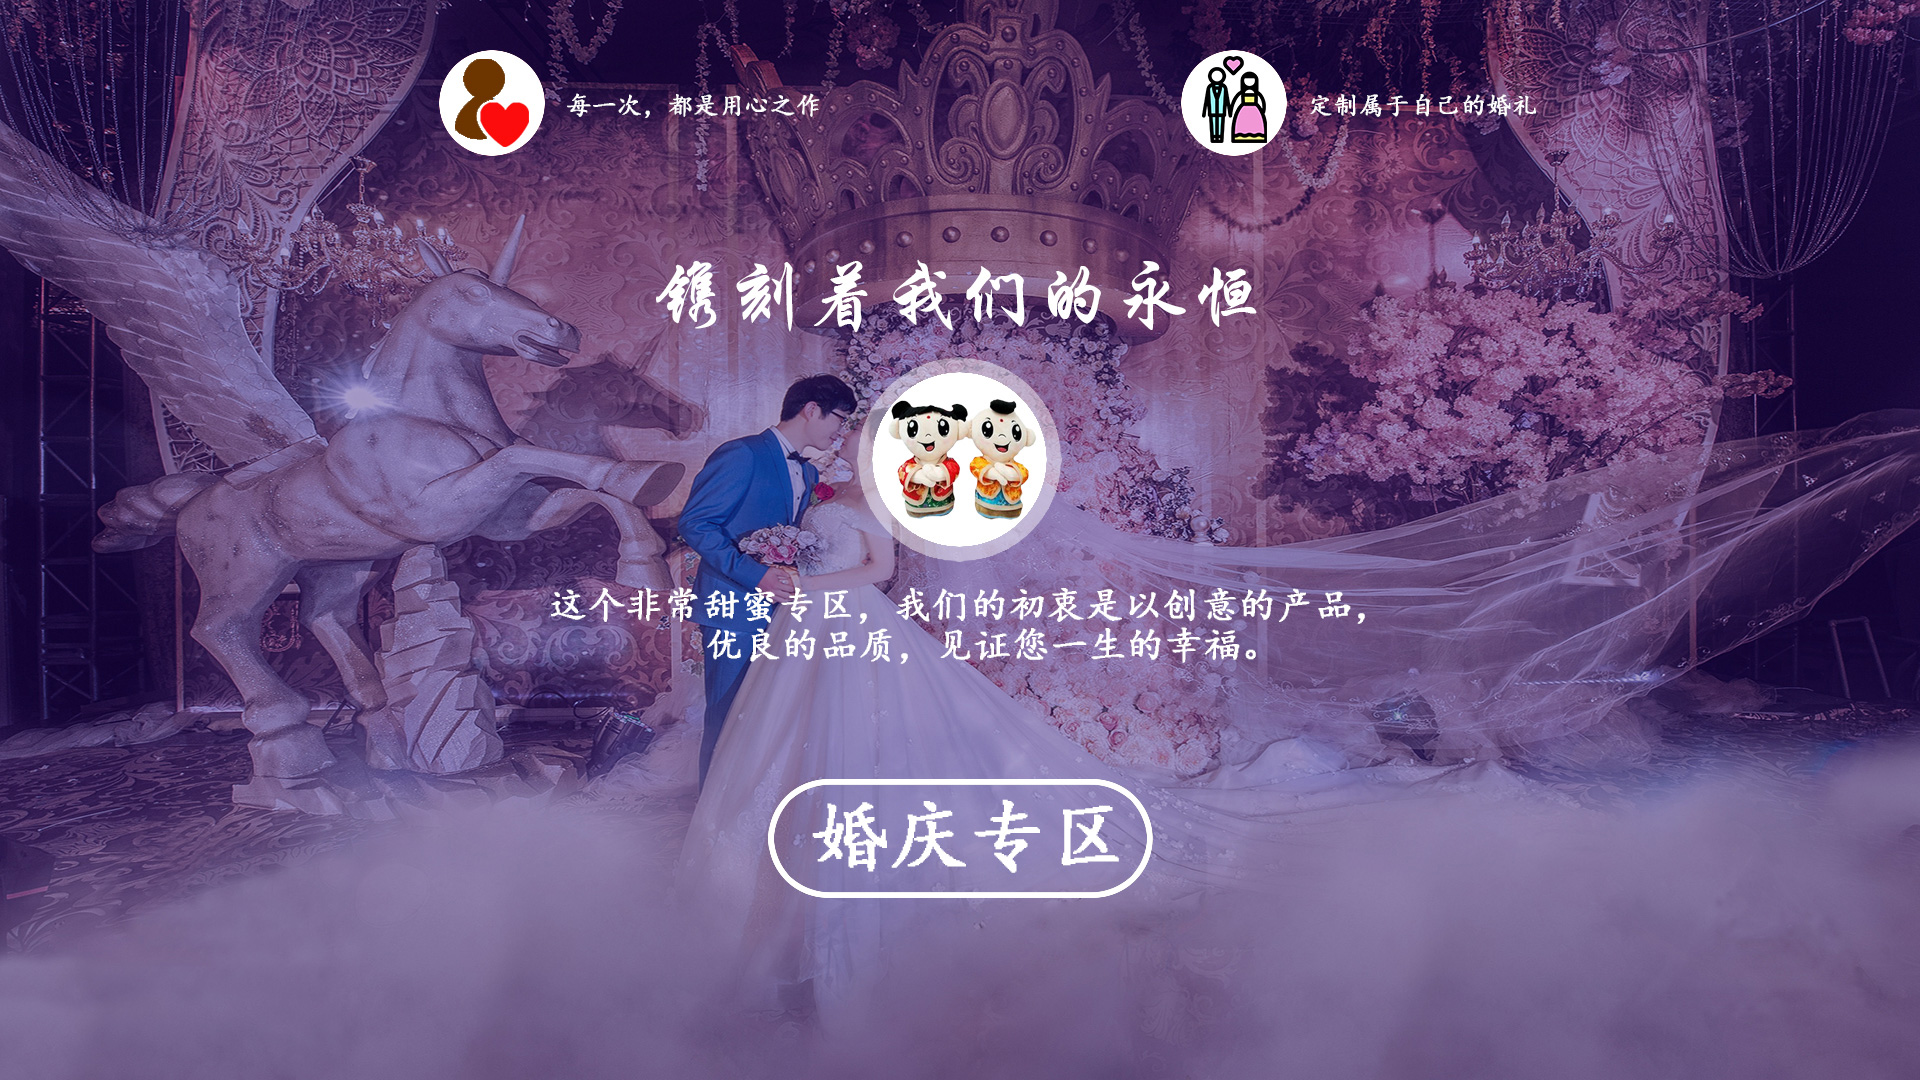
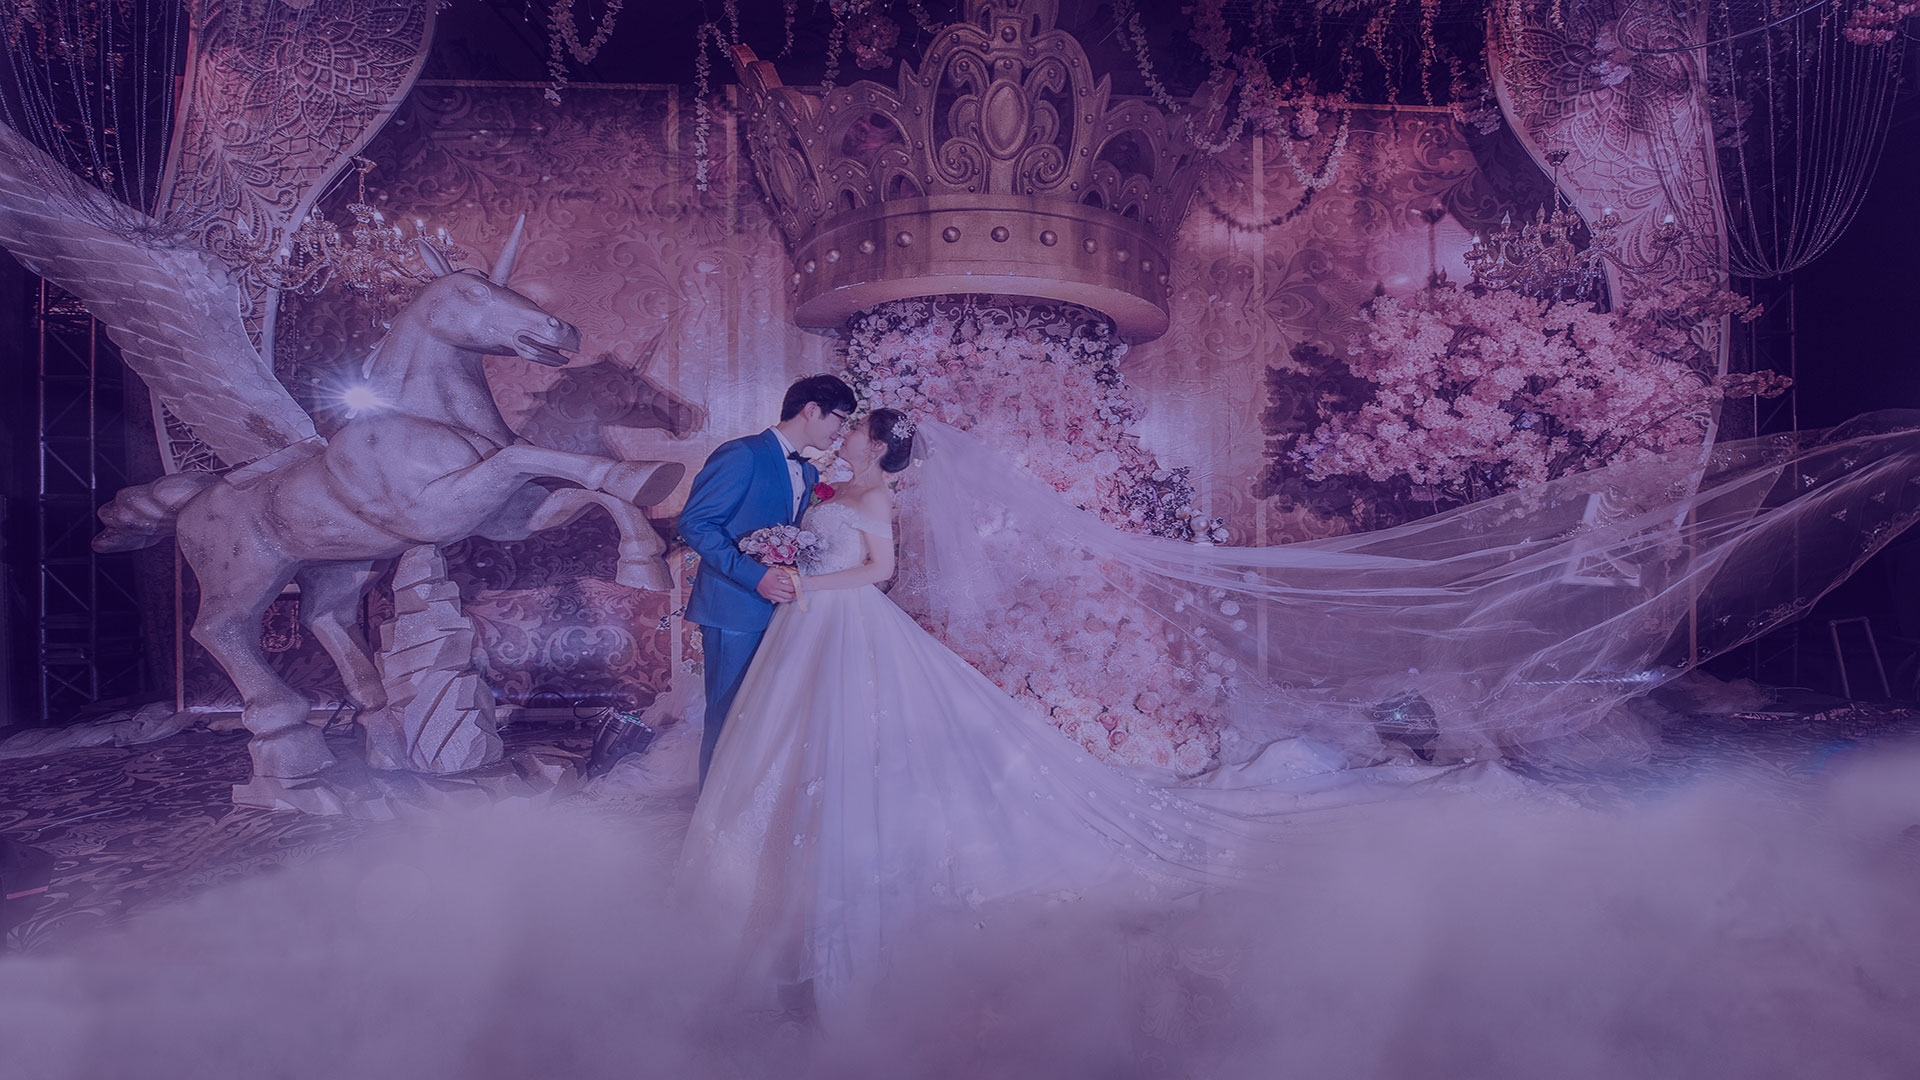
wedding

diff --git a/src/pages/Wedding/WeddingPage.vue b/src/pages/Wedding/WeddingPage.vue
@@ -1,0 +1,127 @@
+<template>
+  <div class="wedding-container">
+      <img class="carousel-img" src="../../assets/img/c-wedding.jpg">
+        <div class="wedding-content">
+            <div class="wedding-header">
+                <Row>
+                <Col span="12" class="head-info">
+                    <img class="head-logo" src="../../assets/img/wedding-logo1.png">
+                    <span class="head-value">每一次，都是用心之作</span>
+                </Col>
+                <Col span="12" class="head-info">
+                    <img class="head-logo" src="../../assets/img/wedding-logo2.png">
+                    <span class="head-value">定制属于自己的婚礼</span>
+                </Col>
+                </Row>
+            </div>
+            <h1 class="wedding-title">镌刻着我们的永恒</h1>
+            <div class="wedding-logo-bg">
+                <img class="wedding-logo" src="../../assets/img/wedding-logo.png">
+            </div>  
+            <p class="wedding-desc"> 这个非常甜蜜专区，我们的初衷是以创意的产品，优良的品质，见证您一生的幸福。</p> 
+            <div class="wedding-bottom">
+                <Button class="wedding-button" @click="toRouter(`/wedding`)">婚庆专区</Button>
+            </div>
+        </div>
+  </div>
+</template>
+<script>
+export default {
+  data() {
+    return {
+
+    }
+  },
+  methods: {
+    toRouter(route) {
+      this.$router.push({
+        path: route
+      });
+    }
+  }
+};
+</script>
+<style lang="scss" scoped>
+.wedding-container {
+    width: 100%;
+    height: 100%;
+    position: relative;
+    .carousel-img {
+        width: 100%;
+        height: 100%;
+        max-width: 100%;
+        max-height: 100%;
+    }
+    .wedding-content {
+        position: absolute;
+        position: absolute;
+        width: 60%;
+        left: 20%;
+        top: 0;
+        .head-info {
+            padding: 0.5rem 0.25rem;
+            float: left;
+            .head-logo {
+                width: 0.8rem;
+                height: 0.8rem;
+                vertical-align: middle;
+            }
+            .head-value {
+                vertical-align: middle;
+                margin-left: 0.125rem;
+                color: #fff;
+                font-family: "STKaiti";
+                font-size: 0.2rem;
+            }
+        }
+        .wedding-title {
+            color: #fff;
+            font-family: "STXingkai";
+            font-size: 0.8rem;
+            text-align: center;
+        }
+        .wedding-logo-bg {
+            width: 1.8rem;
+            height: 1.8rem;
+            background: rgba(255, 255, 255, 0.5);
+            border-radius: 0.9rem;
+            margin: 0 auto;
+            margin-top: 0.25rem;
+            margin-bottom: 0.25rem;
+            .wedding-logo {
+                width: 1.5rem;
+                height: 1.5rem;
+                margin: 0.15rem 0.15rem;
+            }
+        }
+        .wedding-desc {
+            width: 7.5rem;
+            text-align: center;
+            margin: 0 auto;
+            color: #fff;
+            font-family: "STKaiti";
+            font-size: 0.3rem;
+            font-weight: bold;
+            padding: 0.25rem 0.25rem;
+        }
+        .wedding-bottom {
+            width: 2.8rem;
+            height: 1rem;
+            margin: 0 auto;
+            .wedding-button {
+            width: 100%;
+            height: 100%;
+            font-family: "STKaiti";
+            font-weight: bold;
+            background: rgba(255, 255, 255, 0);
+            border: 4px solid #fff;
+            border-radius: 0.5rem;
+            color: #fff;
+            font-size: 0.45rem;
+        }
+        }
+    }
+}
+
+</style>
+

diff --git a/src/pages/Home/Home.vue b/src/pages/Home/Home.vue
@@ -21,6 +21,7 @@
                 <house-page></house-page>
             </CarouselItem>
             <CarouselItem>
+                <wedding-page></wedding-page>
             </CarouselItem>
             <CarouselItem>
             </CarouselItem>
@@ -36,10 +37,11 @@ import HomePage from "./HomePage"
 import CustomPage from '../Custom/CustomPage'
 import YearPage from '../Year/YearPage'
 import HousePage from '../House/HousePage'
+import WeddingPage from '../Wedding/WeddingPage'
 export default {
   data() {
     return {
-      value: 3,
+      value: 0,
       settings: {
         autoplay: false,
         autoplaySpeed: 6000,
@@ -54,7 +56,8 @@ export default {
     "home-page": HomePage,
     'custom-page': CustomPage,
     'year-page': YearPage,
-    'house-page': HousePage
+    'house-page': HousePage,
+    'wedding-page': WeddingPage
   }
 };
 </script>
